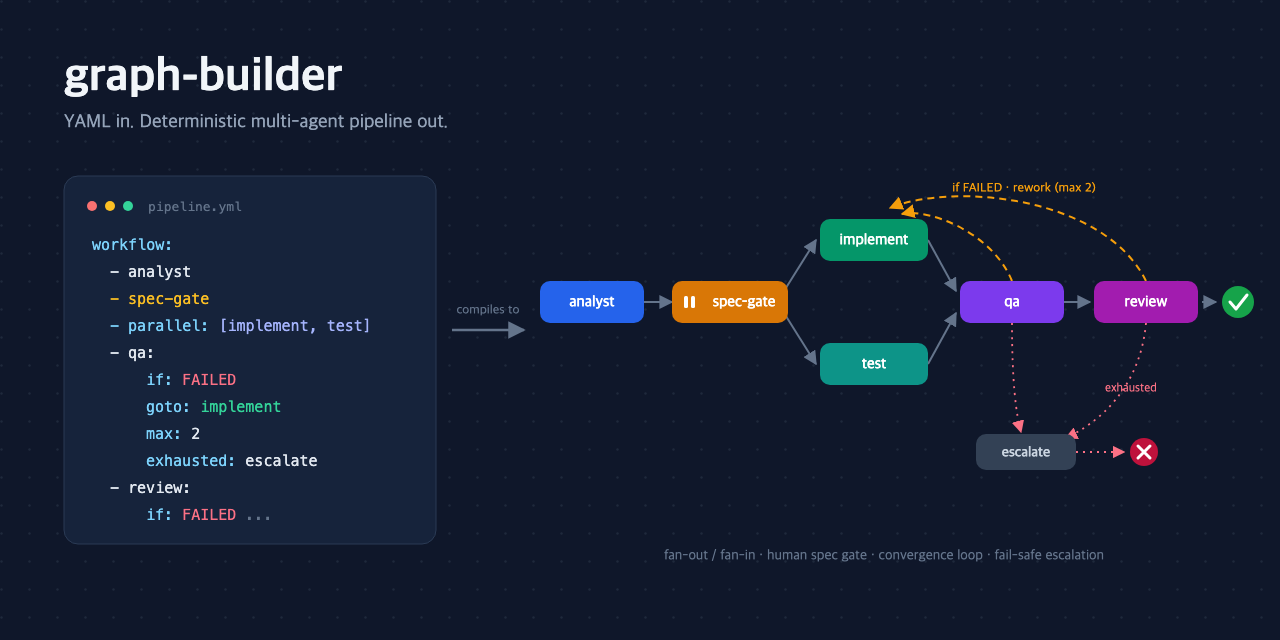
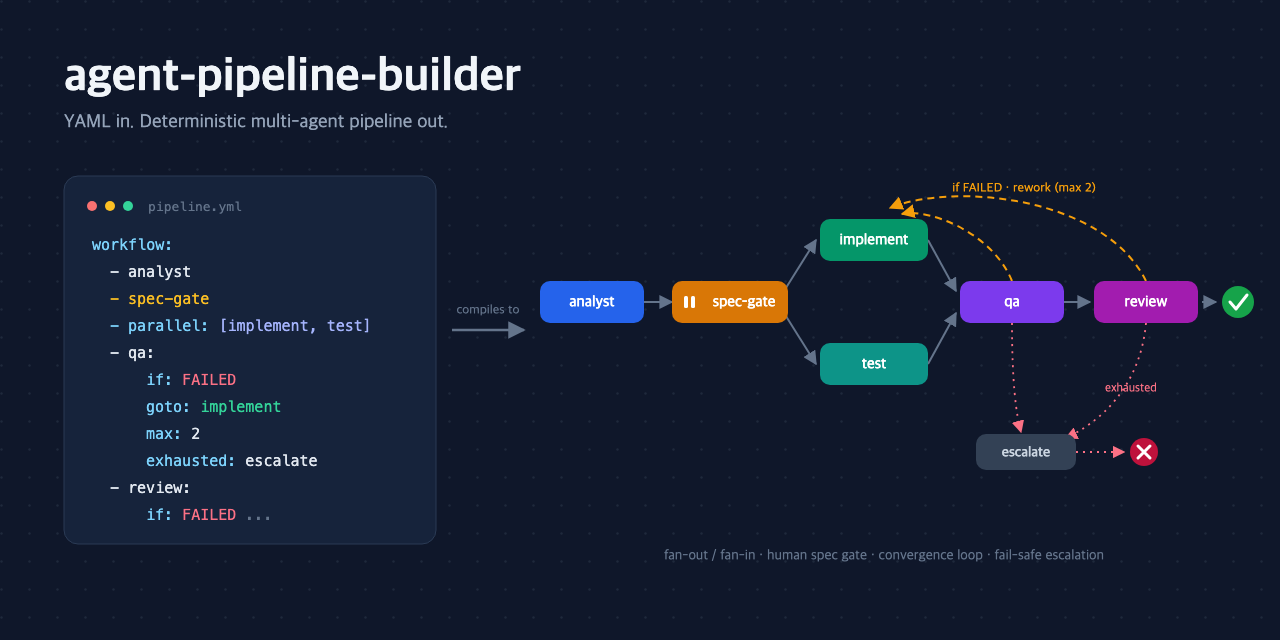
프로젝트 개명: graph-builder → agent-pipeline-builder (v0.4.0)
- 플러그인·마켓플레이스·스킬 호출명(agent-pipeline-builder:build/edit)·
  CLAUDE.md 마커 규약·설치 경로·eval fixture URL 일괄 개명
- hero.svg 타이틀 텍스트 갱신 및 social-preview.png 재렌더
- 이름 변경은 설치 식별자가 바뀌는 파괴적 변경이라 0.4.0 으로 상승

Changed region(s): [[0.0312, 0.0938, 0.4062, 0.1562]]

diff --git a/skills/build/scripts/run_graph.py b/skills/build/scripts/run_graph.py
@@ -1,7 +1,7 @@
 #!/usr/bin/env python3
 # -*- coding: utf-8 -*-
 """
-graph-builder 러너: pipeline.yml + 프롬프트 파일로 정의된 에이전트 그래프를 실행한다.
+agent-pipeline-builder 러너: pipeline.yml + 프롬프트 파일로 정의된 에이전트 그래프를 실행한다.
 
 - 노드 = 서브 에이전트 (claude -p 헤드리스 세션)
 - 엣지 = 트리거 (when 조건부 분기, loop 피드백 순환)

diff --git a/README.md b/README.md
@@ -1,12 +1,12 @@
-# graph-builder
+# agent-pipeline-builder
 
 **Build a multi-agent development orchestration for your project from a single sentence.**
 
 English · [한국어](README.ko.md)
 
-![graph-builder: pipeline.yml compiled into a deterministic multi-agent graph](docs/hero.svg)
+![agent-pipeline-builder: pipeline.yml compiled into a deterministic multi-agent graph](docs/hero.svg)
 
-graph-builder is a Claude Code plugin that scaffolds a self-contained, YAML-driven
+agent-pipeline-builder is a Claude Code plugin that scaffolds a self-contained, YAML-driven
 agent pipeline into your repository. Describe your domain once, and the plugin
 generates an orchestration skill, a specialized agent team, and the trigger wiring.
 From then on, feature requests run through a deterministic graph:
@@ -14,9 +14,9 @@ analyze, confirm the spec, implement and test in parallel, verify, review,
 and loop until acceptance passes.
 
 ```
-graph-builder plugin
-  ├─ graph-builder:build   # scaffold an orchestration (6 phases)
-  └─ graph-builder:edit    # modify and diagnose an installed pipeline
+agent-pipeline-builder plugin
+  ├─ agent-pipeline-builder:build   # scaffold an orchestration (6 phases)
+  └─ agent-pipeline-builder:edit    # modify and diagnose an installed pipeline
         │
         ▼  "Set up a dev orchestration for this project"
 <your-project>/
@@ -30,7 +30,7 @@ graph-builder plugin
 The output runs on its own. Once scaffolded, the pipeline needs neither this
 plugin nor any dependency beyond Python 3 and the `claude` CLI.
 
-## Why graph-builder
+## Why agent-pipeline-builder
 
 - **Deterministic orchestration.** A script, not an LLM, schedules the graph:
   same input, same flow. Branching, fan-out/fan-in, feedback loops, and loop
@@ -52,18 +52,18 @@ plugin nor any dependency beyond Python 3 and the `claude` CLI.
 ## Install
 
 ```
-/plugin marketplace add Korea-DongheeHan/graph-builder
-/plugin install graph-builder@graph-builder-marketplace
+/plugin marketplace add Korea-DongheeHan/agent-pipeline-builder
+/plugin install agent-pipeline-builder@agent-pipeline-builder-marketplace
 ```
 
 ## What to say
 
 Trigger phrases, by what you want:
 
-- **Build a new orchestration** (`graph-builder:build`) — "Set up a development
+- **Build a new orchestration** (`agent-pipeline-builder:build`) — "Set up a development
   orchestration", "Build an agent pipeline for this repo", "Create a harness",
   "Convert our orchestrator skill into a graph".
-- **Change or diagnose an installed pipeline** (`graph-builder:edit`) — "Add a
+- **Change or diagnose an installed pipeline** (`agent-pipeline-builder:edit`) — "Add a
   security-scan step to the pipeline", "Raise the convergence loop cap to 3",
   "Turn qa into a command node", "Why did yesterday's pipeline run fail?".
 - **Run the scaffolded pipeline** (triggered by your project's CLAUDE.md, not by
@@ -80,7 +80,7 @@ In any project, say *"Set up a development orchestration"*. The `build` skill
 walks six phases and asks for your confirmation where it matters:
 
 1. **Audit.** Detects existing pipelines, agents, and CLAUDE.md markers.
-   Maintenance requests get routed to `graph-builder:edit` instead of
+   Maintenance requests get routed to `agent-pipeline-builder:edit` instead of
    duplicating anything.
 2. **Analyze.** Reads your stack, real build/test commands, and convention
    documents. Nothing is guessed.
@@ -335,7 +335,7 @@ by simply asking ("run it in session mode").
 - **Human gates.** Headless nodes cannot ask questions. Spec confirmation
   happens at the gate; commits and merges happen after the run, by you.
 - **Evolution loop.** Feedback maps to a concrete fix target (prompts, agents,
-  or YAML), and `graph-builder:edit` applies changes with validation and a
+  or YAML), and `agent-pipeline-builder:edit` applies changes with validation and a
   changelog entry.
 
 ## Evals
@@ -345,7 +345,7 @@ completeness, in-place editing (no duplicate pipelines), and trigger
 discipline (a plain code question must not scaffold anything):
 
 ```
-claude plugin eval graph-builder@graph-builder-marketplace --scaffold --runs 1
+claude plugin eval agent-pipeline-builder@agent-pipeline-builder-marketplace --scaffold --runs 1
 ```
 
 `plugin eval` is in early access; the deterministic graph engine is covered
@@ -356,13 +356,13 @@ separately by `--validate` and `--mock` regression (22 checks per release).
 ```
 .claude-plugin/                     # manifest + self-hosted marketplace
 skills/
-  build/                            # graph-builder:build — the scaffolder
+  build/                            # agent-pipeline-builder:build — the scaffolder
     SKILL.md                        # 6-phase procedure
     scripts/run_graph.py            # the engine (copied into every output)
     templates/pipeline-dev/         # output skill skeleton (SKILL.md, yml, prompts)
     templates/agents/               # agent definition skeletons (5 roles)
     references/                     # yml spec, team patterns, agent guide,
                                     # prompt guide, session-mode rules
-  edit/                             # graph-builder:edit — change & diagnose
+  edit/                             # agent-pipeline-builder:edit — change & diagnose
 evals/                              # skill-layer eval cases (build / edit / trigger)
 ```

diff --git a/skills/build/SKILL.md b/skills/build/SKILL.md
@@ -1,9 +1,9 @@
 ---
 name: build
-description: 멀티 에이전트 개발 오케스트레이션을 프로젝트에 구축하는 메타 스킬. 에이전트 팀이나 그래프 파이프라인을 새로 구성하거나 기존 하네스 스킬을 그래프로 변환하는 작업에 사용한다. 설치된 파이프라인의 변경은 graph-builder:edit 가 담당한다.
+description: 멀티 에이전트 개발 오케스트레이션을 프로젝트에 구축하는 메타 스킬. 에이전트 팀이나 그래프 파이프라인을 새로 구성하거나 기존 하네스 스킬을 그래프로 변환하는 작업에 사용한다. 설치된 파이프라인의 변경은 agent-pipeline-builder:edit 가 담당한다.
 ---
 
-# graph-builder:build — 개발 오케스트레이션 구성
+# agent-pipeline-builder:build — 개발 오케스트레이션 구성
 
 도메인 설명 한 문장에서 **프로젝트에서 독자적으로 동작하는 개발 오케스트레이션**을
 만든다. 이 스킬은 구성할 때만 쓰이고, 산출물은 플러그인 없이 실행된다.
@@ -31,7 +31,7 @@ description: 멀티 에이전트 개발 오케스트레이션을 프로젝트에
 무엇이든 만들기 전에 기존 산출물을 감사하고 실행 모드를 정한다:
 
 - 확인: `.claude/skills/*/pipeline.yml`(설치된 파이프라인), `.claude/agents/`,
-  CLAUDE.md 의 `graph-builder:*` 마커 블록
+  CLAUDE.md 의 `agent-pipeline-builder:*` 마커 블록
 - **정합성(drift) 점검** — 발견한 산출물끼리 어긋나면(yml 의 `agent:` 가
   없는 에이전트를 가리킴, 마커는 있는데 스킬 디렉토리가 없음 등) 먼저 보고한다
 
@@ -39,7 +39,7 @@ description: 멀티 에이전트 개발 오케스트레이션을 프로젝트에
 |---|---|
 | 산출물 없음 | **신규 구축** — Phase 1 부터 진행 |
 | 파이프라인 있음 + 새 파이프라인/노드·에이전트 추가 요구 | **확장** — 기존 이름·에이전트와 충돌하지 않게 Phase 1 부터 진행 (중복 생성 금지) |
-| 파이프라인 있음 + 변경·수정·진단 요구 | **유지보수 — 이 스킬을 쓰지 말고 `graph-builder:edit` 로 라우팅한다** |
+| 파이프라인 있음 + 변경·수정·진단 요구 | **유지보수 — 이 스킬을 쓰지 말고 `agent-pipeline-builder:edit` 로 라우팅한다** |
 
 ## Phase 1: 프로젝트 분석
 
@@ -104,12 +104,12 @@ description: 멀티 에이전트 개발 오케스트레이션을 프로젝트에
 같은 마커가 있으면 교체):
 
 ```markdown
-<!-- graph-builder:<파이프라인명> start -->
+<!-- agent-pipeline-builder:<파이프라인명> start -->
 ## 개발 오케스트레이션: <파이프라인명>
 개발·기능 수정·테스트 보강·리뷰 요구사항 요청 시
 `.claude/skills/<파이프라인명>` 스킬(개발 오케스트레이션)을 사용해 수행하라.
 단일 파일 수준의 얇은 변경은 직접 수행한다.
-<!-- graph-builder:<파이프라인명> end -->
+<!-- agent-pipeline-builder:<파이프라인명> end -->
 ```
 
 ## Phase 6: 검증·인계 (필수 — 건너뛰지 마라)
@@ -135,7 +135,7 @@ grep -rn "{{" $PL .claude/agents/<prefix>-*.md | grep -v "{{vars\.\|{{run\.\|{{n
 인계 보고에 포함: 생성 파일 트리, CLAUDE.md 등록 내용, **비용 특성**(노드
 1회 = claude 세션 1개, 최대 세션 수 추정), 실행 모드 2가지(러너=결정적·resume /
 세션=트리 UI 관찰), 컨텍스트 격리 특성, permission-mode 확인, 이후 구성 변경은
-`graph-builder:edit` 사용 안내.
+`agent-pipeline-builder:edit` 사용 안내.
 
 ## 참조
 

diff --git a/skills/edit/SKILL.md b/skills/edit/SKILL.md
@@ -1,9 +1,9 @@
 ---
 name: edit
-description: 설치된 그래프 파이프라인의 구성 변경과 진단 스킬. 노드나 에이전트의 추가와 제거, 분기·루프·판정 기준 조정, 파이프라인 실행 실패의 원인 분석에 사용한다. 새 오케스트레이션 구축은 graph-builder:build 가 담당한다.
+description: 설치된 그래프 파이프라인의 구성 변경과 진단 스킬. 노드나 에이전트의 추가와 제거, 분기·루프·판정 기준 조정, 파이프라인 실행 실패의 원인 분석에 사용한다. 새 오케스트레이션 구축은 agent-pipeline-builder:build 가 담당한다.
 ---
 
-# graph-builder:edit — 파이프라인 구성 변경·진단
+# agent-pipeline-builder:edit — 파이프라인 구성 변경·진단
 
 설치된 오케스트레이션의 **yml·프롬프트·에이전트를 안전하게 바꾼다.**
 원칙: 변경은 3계층(흐름=yml, 태스크 입력=prompts, 역할=agents)을 동기화하고,
@@ -62,7 +62,7 @@ python3 $PL/scripts/run_graph.py $PL/pipeline.yml --mock --mock-output '<노드>
 ## 주의
 
 - `scripts/run_graph.py` 는 수정하지 않는다 — 엔진 버그·기능 요구는
-  graph-builder 플러그인 쪽 이슈다.
+  agent-pipeline-builder 플러그인 쪽 이슈다.
 - 노드 실패를 처리하는 엣지가 없으면 파이프라인 즉시 실패가 **기본 동작**이다
   — 무조건 실패 분기를 추가하지 말고 그 동작이 맞는지 먼저 판단한다.
 - 검증 없이 변경을 끝내지 않는다. mock 을 건너뛴 변경은 미완성이다.
